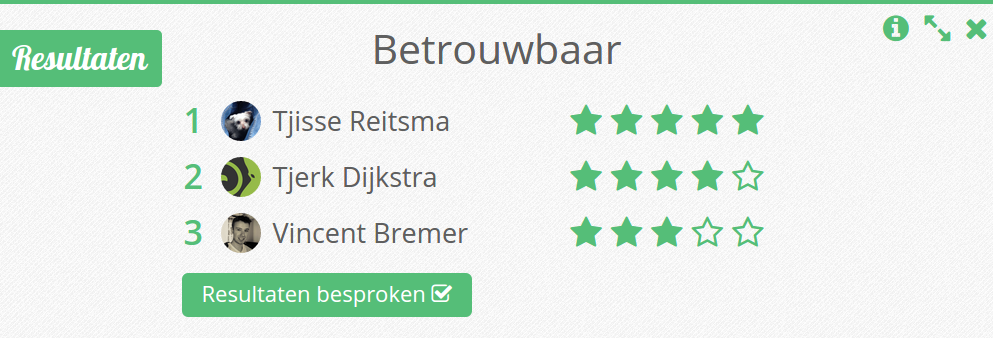
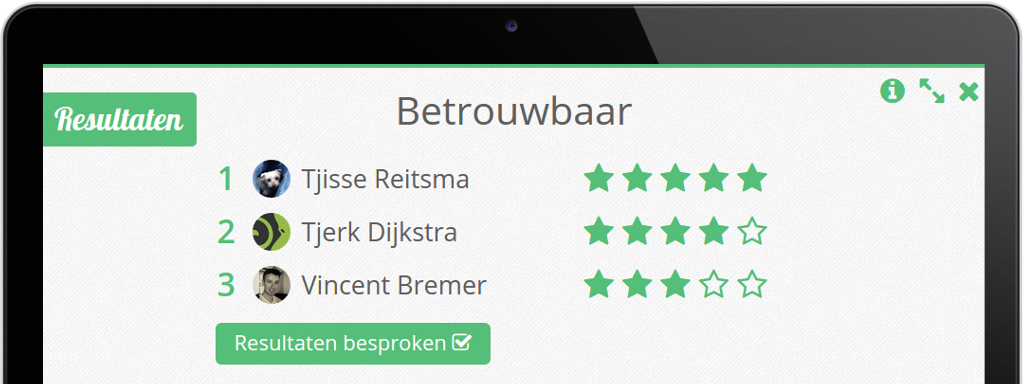
Screenshots in iPhone geplaatst

diff --git a/scriptie/afstudeerscriptie.md b/scriptie/afstudeerscriptie.md
@@ -191,9 +191,6 @@ Wil graag cameraman worden bij een groot en bekend TV station. Daarnaast zou hij
 **Invloeden en activiteiten:**  
 Twee keer per week gaat Johan voetballen met VV de Renners en hij doet dit vooral om lekker fit te blijven en het contact te onderhouden met zijn medespelers. Op zaterdag werkt hij in een tuincentrum om wat geld bij te verdienen. Hier is hij verantwoordelijk voor het vullen van de winkel, en hij helpt de klanten als ze iets zoeken.
 
-**Scenarios:**  
-<span style="color:red">Dit moet nog verder uitgetypt worden!</span>
-
 ## Persoonlijkheden
 Om een goed beeld te krijgen van de doelgroep zijn een drietal personas opgesteld. Door de doelgroep te observeren tijdens het uitvoeren van tests en op basis van het vooronderzoek zijn de onderstaande personas tot stand gekomen. Deze personas zijn weer gebaseerd op de Myers-Briggs Type Indicator (MBTI). Op internet staan diverse tests (1) om erachter te komen wat voor persoonlijkheidstype bij een bepaald persoon hoort. Door de test driemaal in te vullen, en de vragen zo te beantwoorden op een manier die bij de verschillende type mensen uit de doelgroep past, zijn de volgende eigenschappen naar voren gekomen.
 
@@ -437,7 +434,6 @@ Na drie rondes besloot ik om zelf een aantal vragen te stellen over de uitslag v
 - [Enquête ingevuld #5](scriptie/bijlagen/i3-enquete-5.jpg)
 - [Enquête ingevuld #6](scriptie/bijlagen/i3-enquete-6.jpg)
 
-
 # Iteratie 4 – webapp versie 1.2
 
 ## Inleiding
@@ -464,20 +460,19 @@ In de vorige iteratie en bij het tonen aan geïnteresseerden werd duidelijk dat 
 Vrijwel alle nieuwe bezoekers scrollen eerst naar beneden om te kijken of er op de homepage al wat informatie staat over het feedbackspel. Deze informatie was in eerste instantie pas te vinden nadat de gebruiker was ingelogd. Door wat meer informatie te geven in de vorm van een korte uitleg en screenshots zal het voor veel mensen eerder duidelijk worden wat het feedbackspel inhoud.
 
 ### Registreren en inloggen
-In het vorige prototype waren een aantal stappen benodigd om in te kunnen loggen bij de applicatie, namelijk:
+In het vorige prototype waren een aantal stappen nodig om het spel te kunnen spelen, namelijk:
 
 1. Registreren
 2. Inloggen
 3. Instellen profiel foto
-4. 
+4. Deelnemen aan spel
 
 ## Resultaten
 - Speluitleg werd beter gelezen
 - Spel werd helaas nog steeds gehost op mobiel
 - Meerdere rooms werkte prima
 
-
-
+<!-- 
 # Iteratie 5 – webapp versie 2.0
 <span style="color:red">Dit moet nog verder uitgetypt worden!</span>
 
@@ -486,6 +481,7 @@ In het vorige prototype waren een aantal stappen benodigd om in te kunnen loggen
 
 - Blokkeren host op smartphone
 - Inloggen vs Registreren vs Inloggen / Registreren
+ -->
 
 # Technisch ontwerp
 
